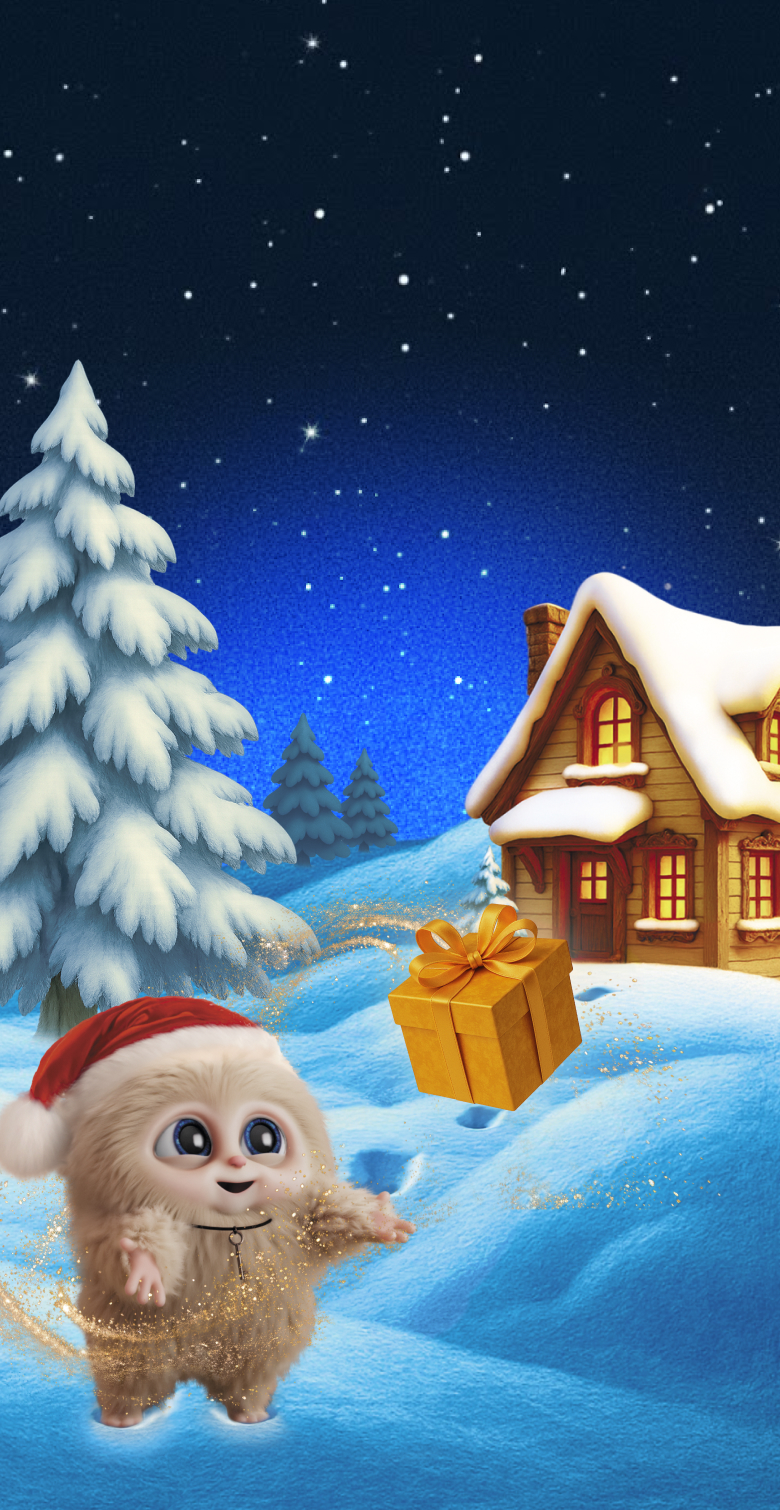
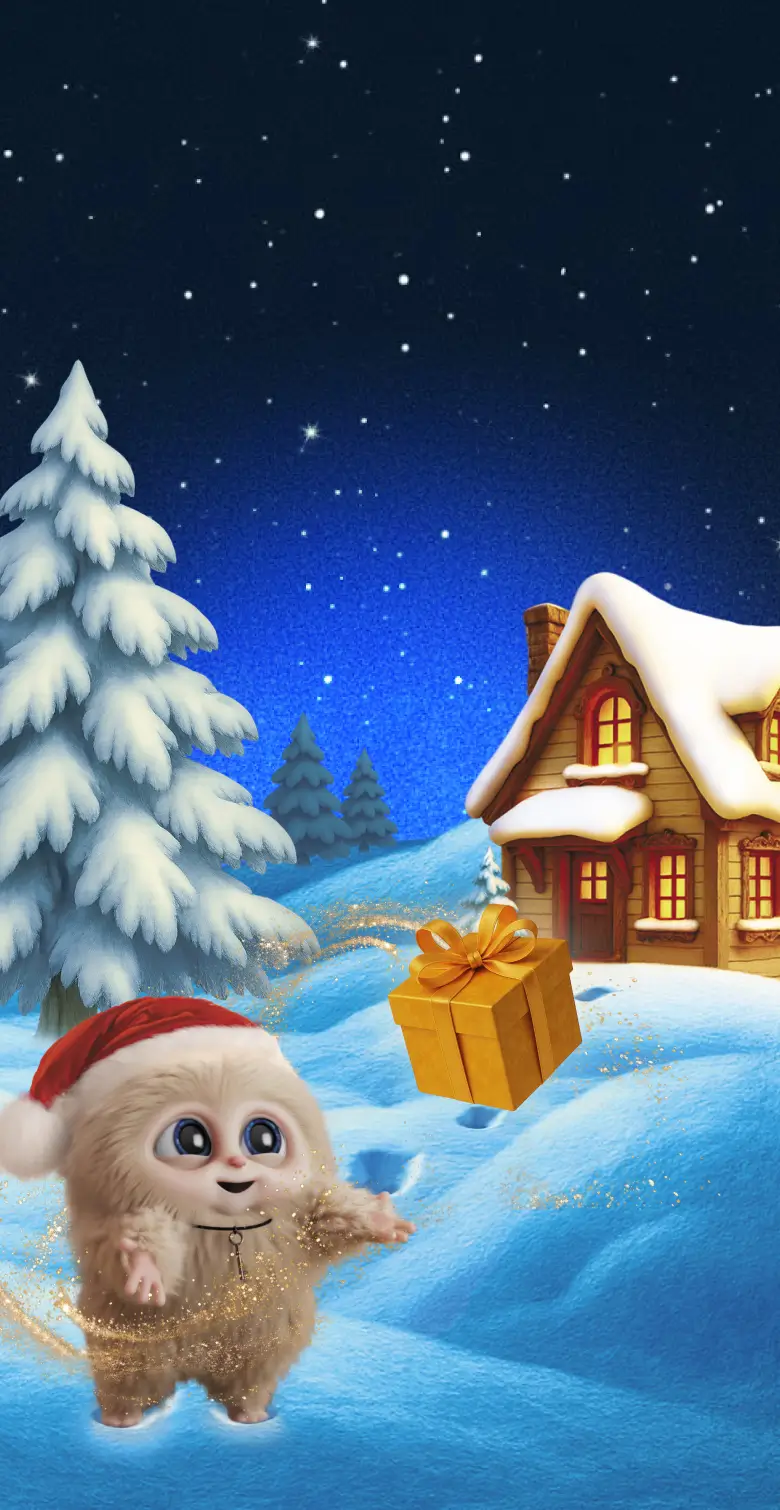
fix

diff --git a/src/features/splash/style.ts b/src/features/splash/style.ts
@@ -11,21 +11,25 @@ export const Wrapper = styled.div`
   display: flex;
   flex-direction: column;
   align-items: center;
-  padding: 0 16px;
-  padding-top: 3rem;
+  padding-top: calc(
+    44px + var(--twa-safe-area-top, 0px) + (min(var(--twa-safe-area-top, 0px), 1px) * 30)
+  );
+  padding-bottom: calc(
+    20px + var(--twa-safe-area-bottom, 0px) + (min(var(--twa-safe-area-bottom, 0px), 1px) * 30)
+  );
   position: relative;
 `;
 
 export const Logo = styled.img`
   width: 130px;
-  margin-bottom: 10px;
+  margin-bottom: 28px;
   position: relative;
   z-index: 2;
 `;
 
 export const ProgressContainer = styled.div`
   width: 80%;
-  max-width: 320px;
+  max-width: 307px;
   height: 25px;
   position: relative;
   z-index: 2;
@@ -79,9 +83,9 @@ export const Label = styled.div`
 export const BottomImage = styled.img`
   position: absolute;
   top: 0;
-  width: auto;
-  min-width: 100vw;
+  width: 100vw;
   height: 100vh;
   pointer-events: none;
+  object-fit: cover;
   z-index: 0;
 `;

diff --git a/src/App.tsx b/src/App.tsx
@@ -63,7 +63,7 @@ export default function App() {
     botUsername != null ? `https://t.me/${botUsername}?${telegramStartAppQuery}` : undefined;
   const telegramDeepLink =
     botUsername != null ? `tg://resolve?domain=${botUsername}&${telegramStartAppQuery}` : undefined;
-  const shouldShowSplash = stage === 'splash' || !isTelegramReady;
+  const shouldShowSplash = true; // stage === 'splash' || !isTelegramReady;
 
   useEffect(() => {
     if (!isTelegramReady || isTelegramWebApp || allowBrowserMode || !telegramDeepLink) {
